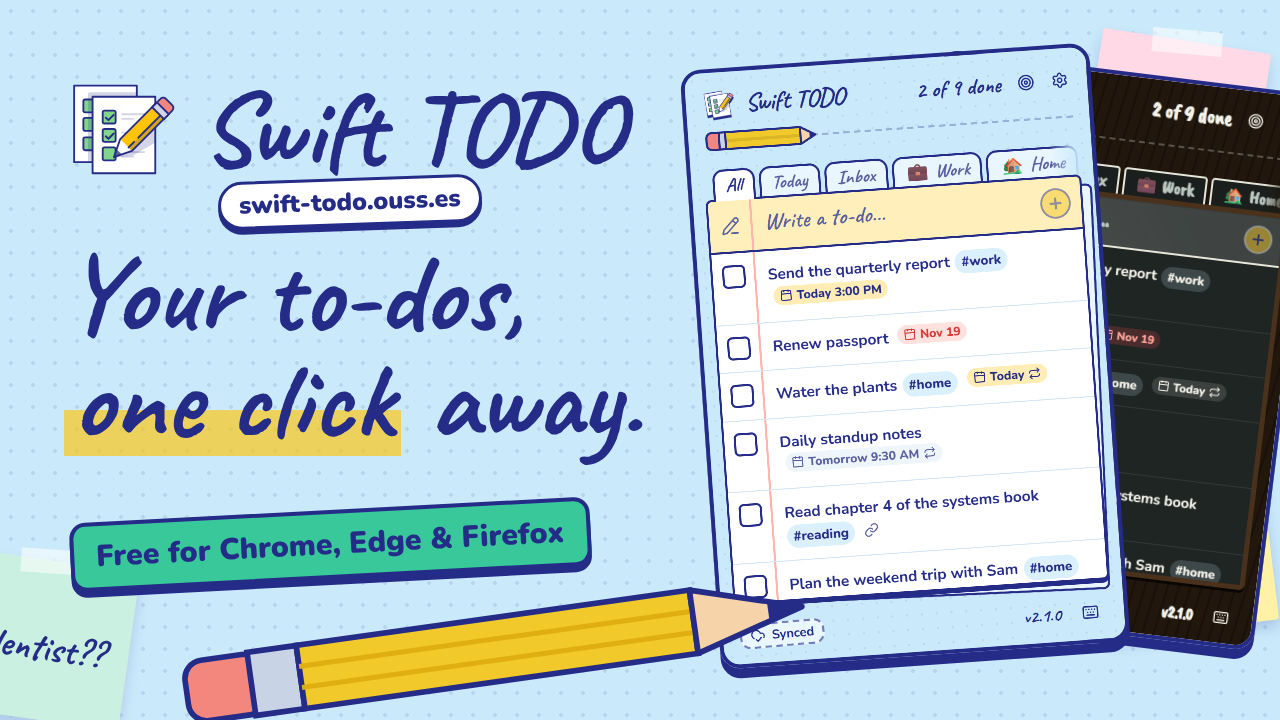
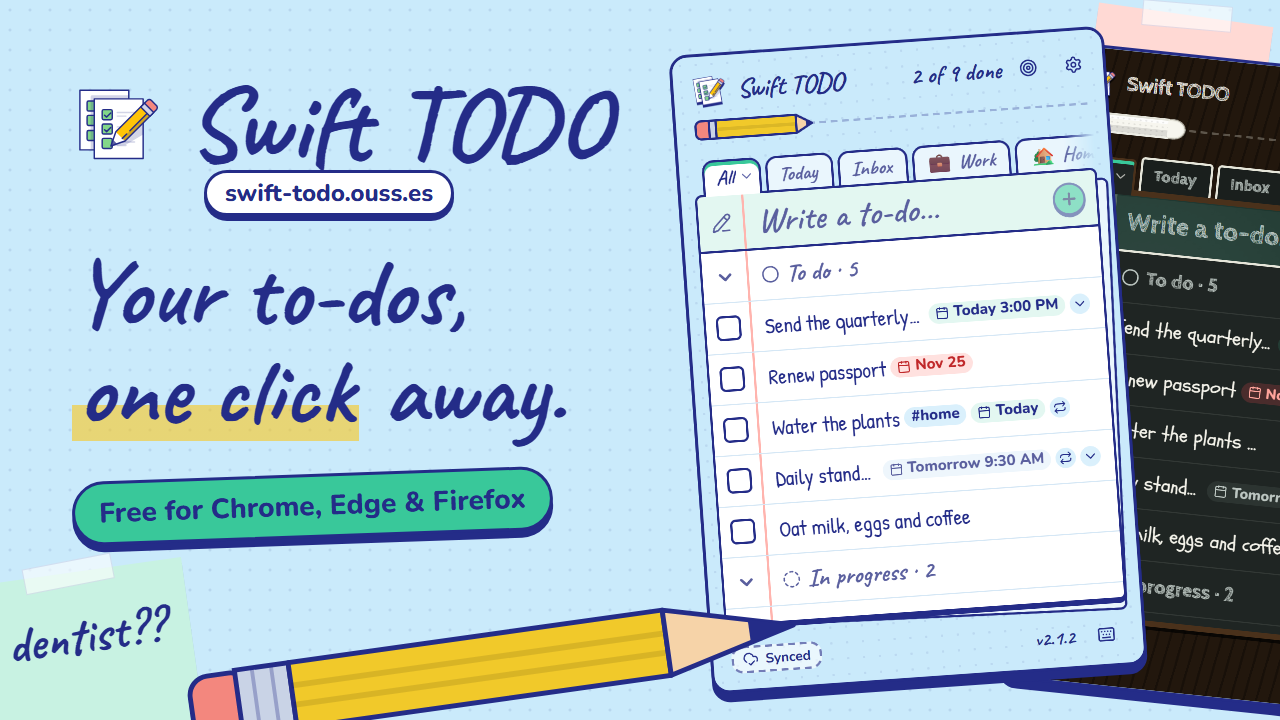
feat: make the website's link preview with the store images, from the current screenshots

diff --git a/tests/branding/branding.spec.ts b/tests/branding/branding.spec.ts
@@ -229,6 +229,40 @@ const IMAGES: IImage[] = [
       ${popup("skin-chalk-dark", { x: 1080, y: 70, h: 600, r: 7, z: 1 })}
       ${popup("overview", { x: 790, y: 58, h: 600, r: -4, z: 2 })}`,
   },
+
+  // The website's link preview (Open Graph), in the site's own look: sticky notes and its long pencil.
+  {
+    file: "../site/public/og.png",
+    width: 1280,
+    height: 720,
+    html: `
+      <style>
+        .note { position: absolute; box-shadow: 0 6px 0 rgb(36 44 136 / 0.18); }
+        .note::before { position: absolute; top: -12px; left: calc(50% - 44px); width: 88px; height: 24px; content: ""; background: rgb(255 255 255 / 0.6); border: 1px solid rgb(36 44 136 / 0.12); transform: rotate(-3deg); }
+      </style>
+      <div class="note" style="left:-34px;top:572px;width:230px;height:200px;background:#c8f2e2;transform:rotate(-8deg);z-index:1">
+        <span class="hand" style="position:absolute;left:46px;top:40px;font-size:50px">dentist??</span>
+      </div>
+      <div class="note" style="left:1086px;top:14px;width:176px;height:176px;background:#ffd9d4;transform:rotate(8deg);z-index:1"></div>
+      <div style="position:absolute;left:72px;top:72px;width:610px;display:flex;flex-direction:column;align-items:flex-start;z-index:3">
+        <div class="brand" style="gap:22px;white-space:nowrap"><img src="${ICON}" style="width:92px;height:92px" alt=""><span class="hand" style="font-size:104px">Swift TODO</span></div>
+        <span style="margin:-6px 0 0 132px;padding:4px 18px;font-size:24px;font-weight:800;background:white;border:3px solid var(--ink);border-radius:999px;box-shadow:0 5px 0 var(--ink)">swift-todo.ouss.es</span>
+        <h1 class="hand" style="margin-top:28px;font-size:96px;line-height:1.02;white-space:nowrap">Your to-dos,<br><span class="underline">one click</span> away.</h1>
+        <span style="margin-top:34px;padding:10px 24px;font-size:28px;font-weight:800;background:#39c89a;border:3px solid var(--ink);border-radius:999px;box-shadow:0 7px 0 var(--ink);transform:rotate(-2deg)">Free for Chrome, Edge &amp; Firefox</span>
+      </div>
+      ${popup("skin-chalk-dark", { x: 1030, y: 62, h: 640, r: 6, z: 2 })}
+      ${popup("overview", { x: 690, y: 40, h: 640, r: -4, z: 3 })}
+      <!-- The site's pencil (site/src/components/Pencil.svelte), drawn long across the bottom. -->
+      <svg viewBox="0 0 640 84" fill="none" style="position:absolute;left:186px;top:626px;width:620px;transform:rotate(-8deg);z-index:4">
+        <rect x="3" y="10" width="62" height="64" rx="20" fill="#f3877e" stroke="#242c88" stroke-width="5" />
+        <rect x="52" y="8" width="56" height="68" fill="#c9d3e6" stroke="#242c88" stroke-width="5" />
+        <path d="M70 10v64M90 10v64" stroke="#242c88" stroke-opacity="0.3" stroke-width="4" />
+        <path d="M108 8h390v68H108z" fill="#f1c92a" stroke="#242c88" stroke-width="5" stroke-linejoin="round" />
+        <path d="M108 32h390M108 52h390" stroke="#000" stroke-opacity="0.1" stroke-width="6" />
+        <path d="M498 8l132 34-132 34z" fill="#f6d3a8" stroke="#242c88" stroke-width="5" stroke-linejoin="round" />
+        <path d="M584 30l46 12-46 12z" fill="#242c88" />
+      </svg>`,
+  },
 ];
 
 for (const image of IMAGES) {

diff --git a/branding/README.md b/branding/README.md
@@ -19,6 +19,8 @@ They're drawn from the icon (`src/assets/icon.svg`) and the screenshots in [show
 | `promo/promo-small-440x280.png` | 440 × 280 | Small promo tile | Small promotional tile | – |
 | `promo/promo-marquee-1400x560.png` | 1400 × 560 | Marquee promo tile | Large promotional tile | – |
 
+`pnpm branding` also makes the website's link preview, [`site/public/og.png`](../site/public/og.png) (1280 × 720), shown when the site is shared.
+
 ## Trailer
 
 | File | Size | Use |
